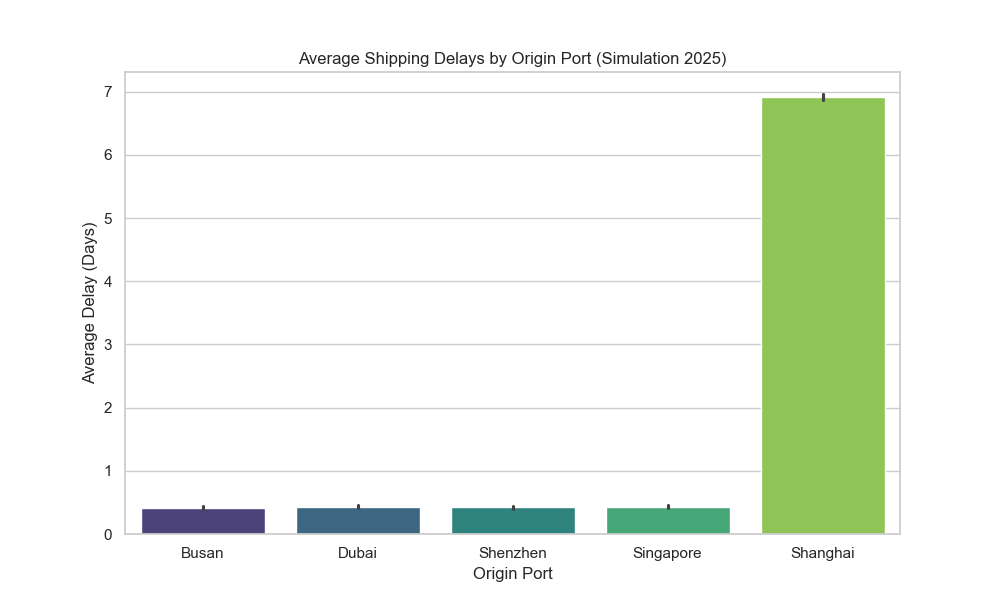
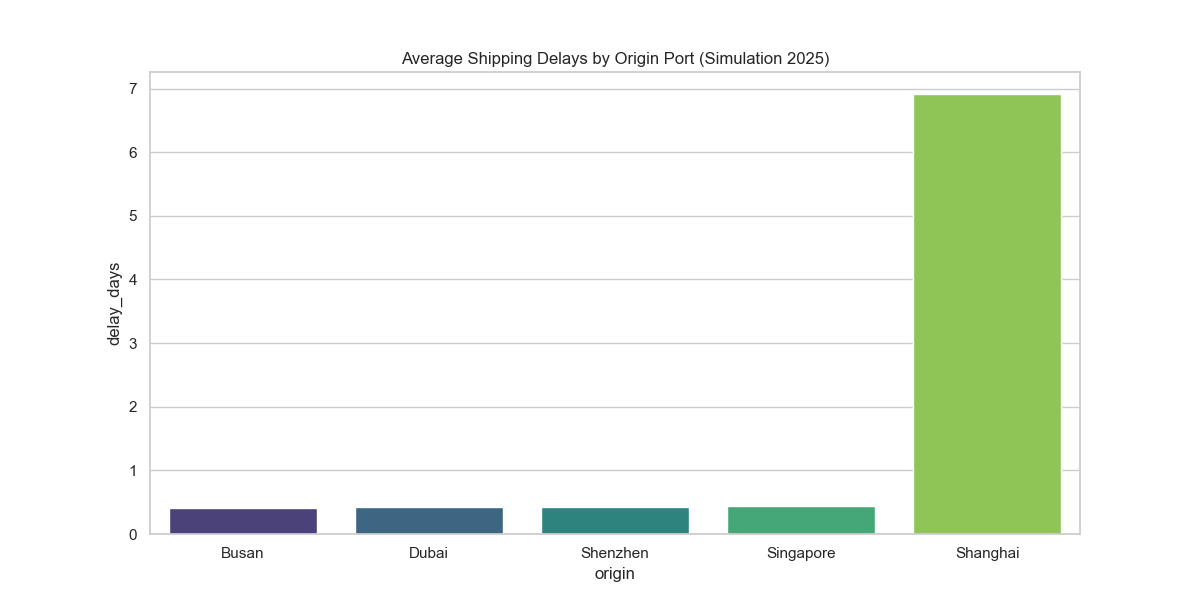
Add files via upload

diff --git a/supply_chain_analytics/import pandas as pd.py b/supply_chain_analytics/import pandas as pd.py
@@ -1,0 +1,119 @@
+import pandas as pd
+import numpy as np
+import matplotlib.pyplot as plt
+import seaborn as sns
+from datetime import datetime, timedelta
+
+# --- 1. KONFIGURACJA SYMULACJI ---
+N_SHIPMENTS = 50000
+START_DATE = datetime(2025, 1, 1)
+
+def generate_supply_chain_data():
+    np.random.seed(42)
+    
+    # Baza portów i miast docelowych
+    origins = ['Shanghai', 'Singapore', 'Shenzhen', 'Busan', 'Dubai']
+    destinations = ['Gdańsk', 'Hamburg', 'Rotterdam', 'Antwerp', 'Felixstowe']
+    modes = ['Sea', 'Air', 'Rail']
+    
+    data = {
+        'shipment_id': [f"SHP-{100000 + i}" for i in range(N_SHIPMENTS)],
+        'origin': np.random.choice(origins, N_SHIPMENTS),
+        'destination': np.random.choice(destinations, N_SHIPMENTS),
+        'shipping_mode': np.random.choice(modes, N_SHIPMENTS, p=[0.7, 0.1, 0.2]),
+        'unit_weight': np.random.uniform(10, 500, N_SHIPMENTS), # kg
+        'cargo_value_usd': np.random.uniform(500, 50000, N_SHIPMENTS)
+    }
+
+    df = pd.DataFrame(data)
+
+    # --- 2. SYMULACJA CZASU I OPÓŹNIEŃ (LOGIKA BIZNESOWA) ---
+    df['shipment_date'] = [START_DATE + timedelta(days=np.random.randint(0, 365)) for _ in range(N_SHIPMENTS)]
+    
+    conditions = [
+        (df['shipping_mode'] == 'Sea'),
+        (df['shipping_mode'] == 'Air'),
+        (df['shipping_mode'] == 'Rail')
+    ]
+    choices = [35, 5, 18] 
+    df['base_lead_time'] = np.select(conditions, choices)
+
+    df['delay_days'] = 0
+    # Symulacja zatoru w Szanghaju
+    shanghai_mask = df['origin'] == 'Shanghai'
+    df.loc[shanghai_mask, 'delay_days'] += np.random.randint(3, 11, size=shanghai_mask.sum())
+    
+    # Symulacja pogody na morzu
+    sea_weather_delay = (df['shipping_mode'] == 'Sea') & (np.random.random(N_SHIPMENTS) > 0.85)
+    df.loc[sea_weather_delay, 'delay_days'] += np.random.randint(2, 7, size=sea_weather_delay.sum())
+
+    df['estimated_arrival'] = df.apply(lambda x: x['shipment_date'] + timedelta(days=x['base_lead_time']), axis=1)
+    df['actual_arrival'] = df.apply(lambda x: x['estimated_arrival'] + timedelta(days=x['delay_days']), axis=1)
+
+    # --- 3. ANALIZA RYZYKA ---
+    df['is_delayed'] = df['delay_days'] > 0
+    df['risk_score'] = (df['delay_days'] * 10) + (df['cargo_value_usd'] / 10000)
+
+    return df
+
+# --- 4. URUCHOMIENIE I RAPORTOWANIE ---
+# --- 4. URUCHOMIENIE I RAPORTOWANIE ---
+if __name__ == "__main__":
+    print(f"[{datetime.now().strftime('%H:%M:%S')}] Generowanie 50k rekordów Supply Chain...")
+    df_logistics = generate_supply_chain_data()
+    
+    # --- NOWA ANALIZA: KPI BIZNESOWE ---
+    total_value_at_risk = df_logistics[df_logistics['is_delayed']]['cargo_value_usd'].sum()
+    delayed_count = df_logistics['is_delayed'].sum()
+    
+    print("-" * 30)
+    print(f"💰 TOTAL VALUE AT RISK: ${total_value_at_risk:,.2f}")
+    print(f"📦 DELAYED SHIPMENTS: {delayed_count} units")
+    print("-" * 30)
+
+    # Eksport danych
+    df_logistics.to_csv("global_supply_chain_data.csv", index=False)
+    print("[SUKCES] Dane zapisane w 'global_supply_chain_data.csv'.")
+    
+    # --- WIZUALIZACJA 1: Opóźnienia wg Portów ---
+    plt.figure(figsize=(12, 6))
+    sns.set_theme(style="whitegrid")
+    sns.barplot(x='origin', y='delay_days', data=df_logistics, palette="viridis", errorbar=None)
+    plt.title('Average Shipping Delays by Origin Port (Simulation 2025)')
+    plt.savefig('delay_analysis.png')
+    print("[WIZUALIZACJA 1] Wykres opóźnień zapisany.")
+
+# --- WIZUALIZACJA 1 ---
+    plt.figure(figsize=(12, 6))
+    sns.set_theme(style="whitegrid")
+    sns.barplot(x='origin', y='delay_days', data=df_logistics, palette="viridis", errorbar=None)
+    plt.title('Average Shipping Delays by Origin Port (Simulation 2025)')
+    plt.savefig('delay_analysis.png') # <--- To już masz
+    plt.close() # Zamknij wykres, żeby nie nakładał się na następny
+
+    # --- WIZUALIZACJA 2 ---
+    plt.figure(figsize=(8, 6))
+    numeric_cols = ['unit_weight', 'cargo_value_usd', 'base_lead_time', 'delay_days', 'risk_score']
+    numeric_df = df_logistics[numeric_cols].corr()
+    sns.heatmap(numeric_df, annot=True, cmap='RdYlGn', center=0)
+    plt.title('Correlation Matrix: Logistics Factors vs Risk Score')
+    plt.tight_layout()
+    plt.savefig('correlation_map.png') # <--- TEGO SZUKAMY
+    plt.close()
+
+    # --- WIZUALIZACJA 3 ---
+    plt.figure(figsize=(10, 5))
+    sns.histplot(df_logistics['cargo_value_usd'], bins=50, kde=True, color='royalblue')
+    plt.title('Distribution of Cargo Value (USD)')
+    plt.savefig('cargo_distribution.png') # <--- TEGO TEŻ SZUKAMY
+    plt.close()
+
+    # --- DODATEK: ANALIZA STRAT PER PORT ---
+    print("\n[RAPORT FINANSOWY PER PORT]")
+    port_analysis = df_logistics.groupby('origin')['cargo_value_usd'].sum().sort_values(ascending=False)
+    for port, value in port_analysis.items():
+        print(f"📍 {port}: Total Cargo Value: ${value:,.2f}")
+
+    print("\n" + "="*40)
+    print("PROJEKT UKOŃCZONY POMYŚLNIE")
+    print("="*40)
